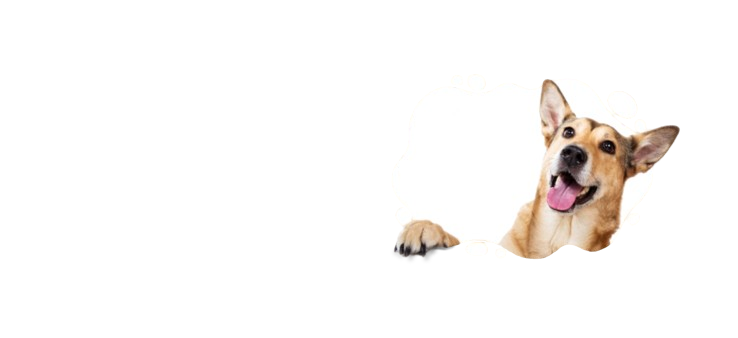
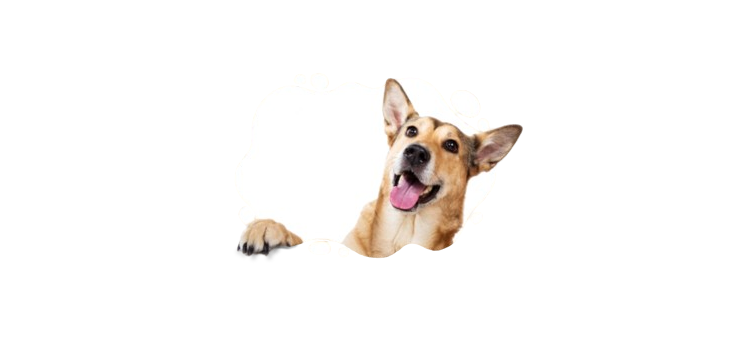
Update

Changed region(s): [[0.4675, 0.2367, 0.935, 0.7692], [0.3117, 0.6213, 0.4051, 0.7692]]

diff --git a/Home.css b/Home.css
@@ -74,13 +74,19 @@ header{
     height: 500px;
     float: none;
     background-repeat: no-repeat;
-    background-image: url(Assets/background.png), url(Assets/bg\ header.png);
-    background-repeat: no-repeat, repeat;
-    background-size: auto 120%, 30%;
-    background-position: right, center;
-    background-color: #ffeccd;
+    background-image: url(Assets/depan.png) ,url(Assets/kucing.gif), url(Assets/anjing.gif), url(Assets/awan.gif), url(Assets/awan.gif), url(Assets/background.png);
+    background-repeat: no-repeat ,no-repeat, no-repeat, no-repeat, no-repeat;
+    background-size: cover ,auto 25%, auto 30%, auto 60%, auto 60%, auto 80%;
+    background-position: bottom ,bottom right, bottom left ,top right, top left, right;
+    background-color: #f6ddb4;
+    animation-timing-function: linear;
+    animation-iteration-count: infinite;;
 }
 
+@keyframes kucing{
+    0%{ background-position: bottom ,bottom right,top right, top left, right;}
+    100%{ background-position: bottom ,bottom left,top right, top left, right;}
+}
 
 header section{
     width: 1048px;
@@ -961,6 +967,7 @@ main p.judul span:hover{
     header{
         width: 100% !important;
         height: 350px;
+        background-position: bottom ,bottom right, bottom left ,top right, top left, center;
     }
     header span{
         float: left;
@@ -1026,7 +1033,7 @@ main p.judul span:hover{
     main .judul{
         font-size: 18px !important;
         width: 380px;
-        height: 100px;
+        height: 50px;
     }
     main .judul span{
         float: none !important;
@@ -1070,59 +1077,66 @@ main p.judul span:hover{
     
 
     main section.produk{
-        height: 1150px;
-        width: 430px !important;
-        align-items: center;
-        border-radius: none !important;
-        background-image: url(Assets/back2.png) !important;
+        height: 280px;
+        width: 450px !important;
+        padding-left: 0;
+        background-size: 100%;
+        background-repeat: no-repeat;
     }
     main section.produk article.produk{
-        width: 300px !important;
-        height: 300px !important;    
-        margin-left: 60px !important;
+        width: 140px !important;
+        height: 140px !important;
+        margin: 5px;
     }
     main section.produk img{
-        width: 300px !important;
-        height: 300px !important;
+        width: 140px !important;
+        height: 140px !important;
     }
     main section.produk h4 a{
-        margin-top: 180px !important;
+        margin-top: 80px !important;
+        font-size: 14px;
+        height: 60px;
     }
     main section.produk p.bintang img{
-        width: 110px !important;
-        height: 20px !important;
+        width: 100px !important;
+        height: 15px !important;
     }
 
 
     main section.artikel{
-        height: 1150px;
-        width: 430px !important;
-        align-items: center;
-        border-top-left-radius: 0;
-        border-bottom-right-radius: 0;
+        height: 300px;
+        width: 450px !important;
+        padding-left: 0;
+        background-size: 100%;
+        background-repeat: no-repeat;
         background-image: url(Assets/back2.png);
         margin-bottom: 20px;
         
     }
     section.artikel img{
+        width: 120px;
+        height: 90px;
         float: none;
     }
     section.artikel h4{
         float: none !important;
         padding: 0 !important;
         text-align: justify;
+        font-size: 10px;
     }
-    section.artikel p{
+    section.artikel .artikel p{
         float: none !important;
         padding: 0 !important;
+        font-size: 8px !important;
     }
     main section.artikel article{
-        width: 250px;
-        height: 300px;
-        margin-left: 80px;
+        width: 120px;
+        height: 200px;
+        margin: 15px;
+        float: left;
     }
     section.artikel article h4:hover{
-        font-size: 17px;
+        font-size: 10px;
     }
     section.artikel article img:hover{
         -webkit-transform: scale(1.08);

diff --git a/PickUp.html b/PickUp.html
@@ -69,45 +69,57 @@
         </section>
         <section class="inti">
             <p>Silahkan isi form berikut untuk mengajukan pickup perliharaan anda</p>
+            <form action="">
                 <table>
                     <tr>
                         <td>No Telepon<span>*</span></td>
                     </tr>
                     <tr>
-                        <td><input type="text"></td>
+                        <td><input type="text" id="no" required></td>
                     </tr>
                     <tr>
                         <td>Nama<span>*</span></td>
                     </tr>
                     <tr>
-                        <td><input type="text"></td>
+                        <td><input type="text" id="nama" required></td>
                     </tr>
                     <tr>
                         <td>Lokasi Penjemputan<span>*</span></td>
                     </tr>
                     <tr>
-                        <td><input type="text"></td>
+                        <td><input type="text" id="lokasi" required></td>
                     </tr>
                     <tr>
                         <td>E-mail<span>*</span></td>
                     </tr>
                     <tr>
-                        <td><input type="text"></td>
+                        <td><input type="email" id="email" required></td>
                     </tr>
                     <tr>
                         <td>Upload foto/video hewan peliharaan mu<span>*</span></td>
                     </tr>
                     <tr>
-                        <td class="file"><input type="file" id="myFile" name="filename"></td>
+                        <td class="file"><input type="file" id="myFile" name="filename" required></td> 
                     </tr>
                     <tr>
                         <td><button class="btn" onclick="berhasil()">Kirim Pengajuan</button></td>
                     </tr>
                 </table>
+            </form>
         </section>
         <script>
             function berhasil(){
-                alert("Berhasil dikirim")
+                let no = document.getElementById("no").value;
+                let nama = document.getElementById("nama").value;
+                let lokasi = document.getElementById("lokasi").value;
+                let email = document.getElementById("email").value;
+                let file = document.getElementById("myFile").value;
+                if(no == "", nama == "", lokasi == "", email == "", file == ""){
+                
+                }else{
+                    alert("Berhasil dikirim");
+                }
+                
             }
         </script>
     </main>
